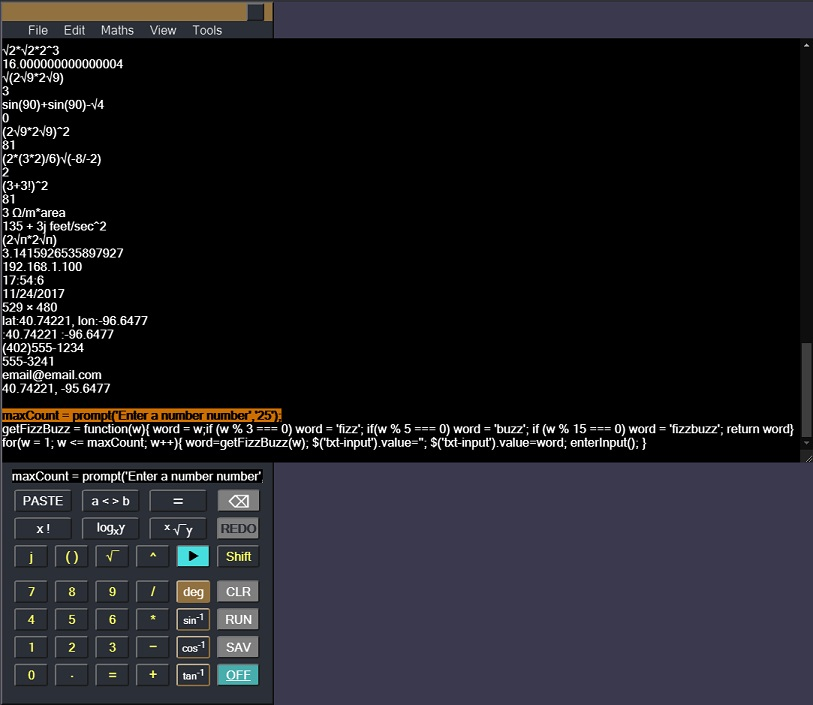
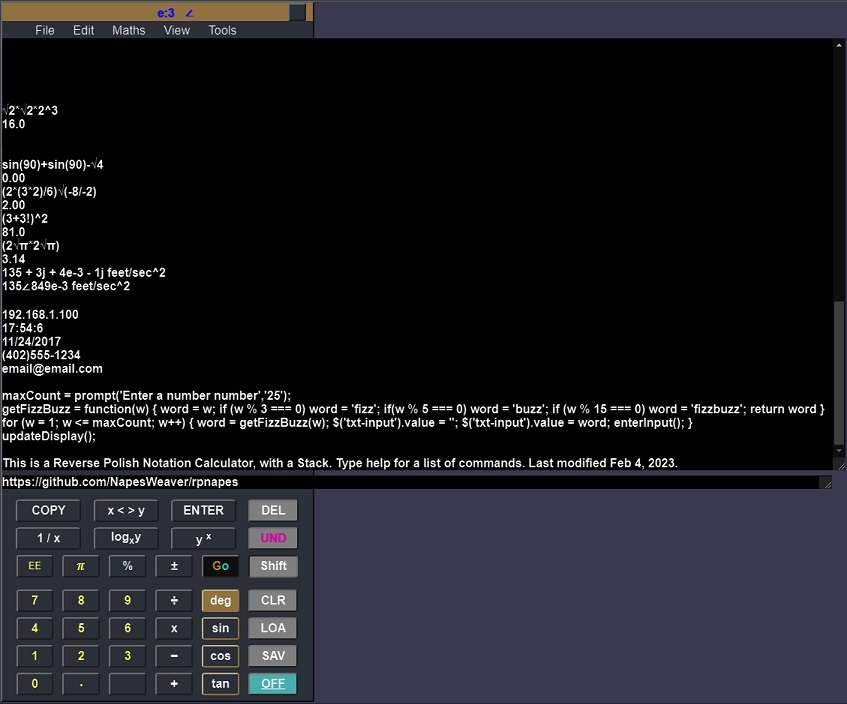
Code snpippet clean-up

Changed region(s): [[0.0, 0.0, 1.0, 1.0], [0.2768, 0.0, 0.3998, 0.0625]]

diff --git a/index.html b/index.html
@@ -260,7 +260,7 @@
             </nav>
           </div>
 
-          <textarea id="lst-stack" class="lst-stack haptic-response" name="lst-stack" tabindex="2" rows="135" placeholder="This is a Reverse Polish Notation Calculator, with a Stack. Type help for a list of commands. Last modified Feb 4, 2023." contenteditable="false" onfocus="lstStackFocus()" onclick="onClickSelection($('lst-stack'))" readonly>&#10;&#10;&#10;&#10;&#10;&#10;&#10;     This page requires javascript.</textarea>
+          <textarea id="lst-stack" class="lst-stack haptic-response" name="lst-stack" tabindex="2" rows="135" placeholder="This is a Reverse Polish Notation Calculator, with a Stack. Type help for a list of commands. Last modified Feb 5, 2023." contenteditable="false" onfocus="lstStackFocus()" onclick="onClickSelection($('lst-stack'))" readonly>&#10;&#10;&#10;&#10;&#10;&#10;&#10;     This page requires javascript.</textarea>
           <textarea id="txt-input" class="txt-input" name="txt-input" tabindex="1" rows="1" autocapitalize="off" autocomplete="off" autocorrect="off" spellcheck="false" onfocus="txtInputFocus()" onmousedown="haptic()"></textarea>
           <div id="entry-pad">
             <input type="button" id="btn-copy" class="btn-big haptic-response" value="COPY"/>

diff --git a/scripts/index.js b/scripts/index.js
@@ -856,6 +856,7 @@ function btnEnter() {
 }
 
 function stripUnits(tmpString) {
+  // return tmpString.replace(/(?![eE][-+]?[0-9]+)(?![ij]\b)(?:[1][\/])?[Ω♥a-zA-Z]+(?<!Infinity|Infinity[ij])[-*^Ω♥a-zA-Z.0-9\/]*(?<!Infinity|Infinity[ij])$/, '');
   return tmpString.replace(/(?![eE][-+]?[0-9]+)(?![ij]\b)(?:[1][/])?[Ω♥a-zA-Z]+[-*^Ω♥a-zA-Z.0-9/]*(?<!Infinity.*)$/, '');
 }
 

diff --git a/README.md b/README.md
@@ -21,9 +21,11 @@ Example JavaScript snippet:
 
 `maxCount = prompt('Enter a number number','25');`
 
-`getFizzBuzz = function(w){ word = w;if (w % 3 === 0) word = 'fizz'; if(w % 5 === 0) word = 'buzz'; if (w % 15 === 0) word = 'fizzbuzz'; return word}`
+`getFizzBuzz = function(w) { word = w; if (w % 3 === 0) word = 'fizz'; if(w % 5 === 0) word = 'buzz'; if (w % 15 === 0) word = 'fizzbuzz'; return word }`
 
-`for(w = 1; w <= maxCount; w++){ word=getFizzBuzz(w); $('txt-input').value=''; $('txt-input').value=word; enterInput(); }`
+`for (w = 1; w <= maxCount; w++) { word = getFizzBuzz(w); $('txt-input').value = ''; $('txt-input').value = word; enterInput(); }`
+
+`updateDisplay();`
 
 ## Notes
 Separate interface for notes...
